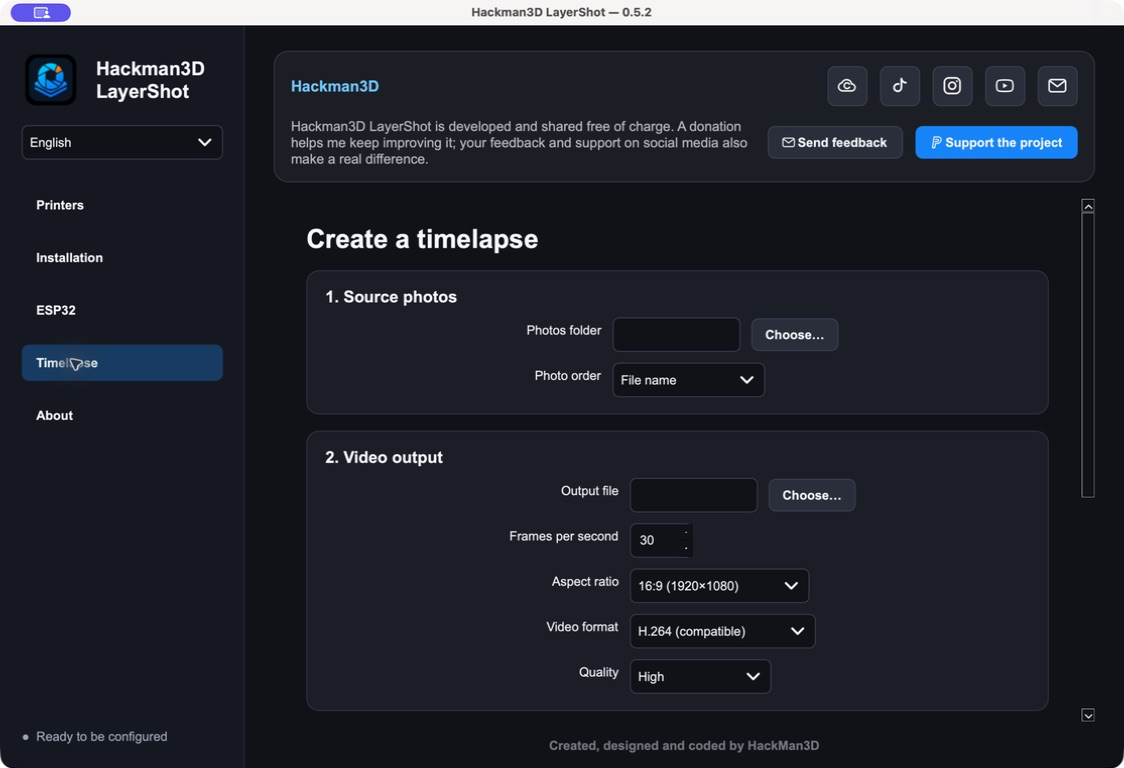
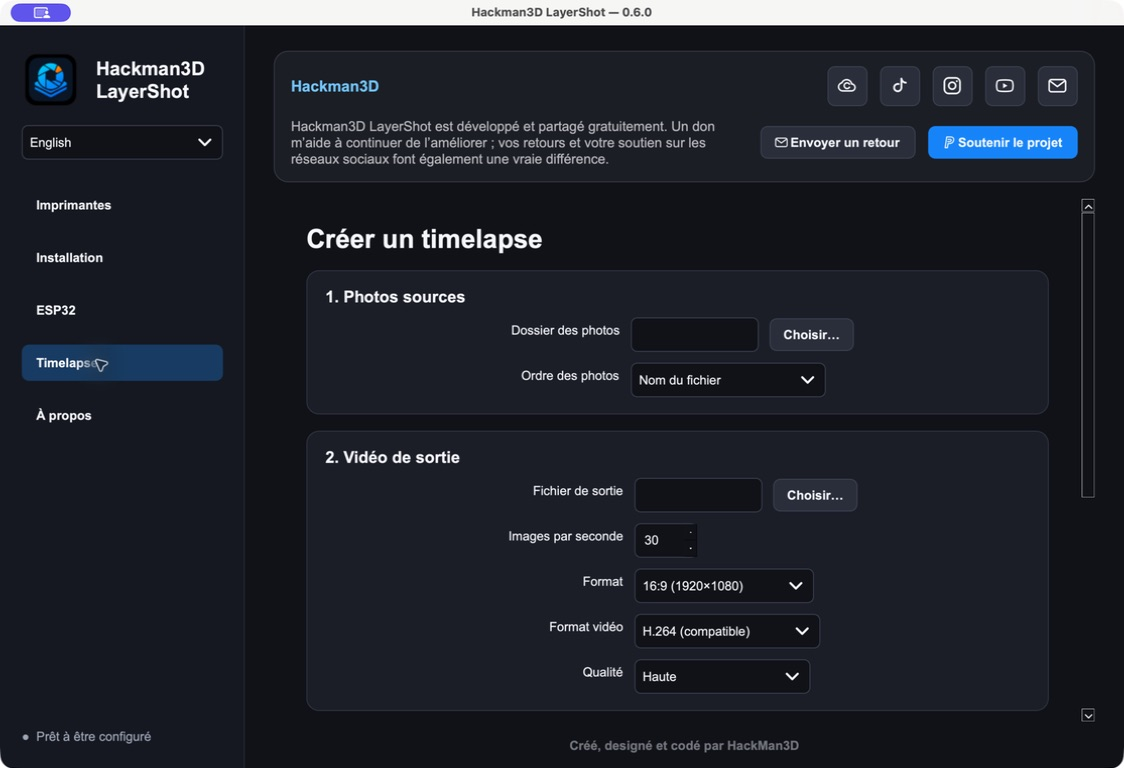
docs: refresh privacy-safe macOS screenshots

diff --git a/README.md b/README.md
@@ -7,7 +7,7 @@ and triggers an iPhone, an Android phone or a compatible DJI camera.
 No iPhone application is required. Once the ESP32 has been configured, the Mac
 or PC application can be closed during the entire print.
 
-![LayerShot printer dashboard](docs/images/printer-dashboard.png)
+![LayerShot camera and firmware selection on macOS](docs/images/installation-camera-selection.png)
 
 ## Download — version 0.6.0
 
@@ -46,6 +46,10 @@ matching firmware:
 | iPhone | iPhones supporting Bluetooth keyboard/remote volume keys | Bluetooth HID `Volume +` | Keep Apple's Camera app open |
 | Android | Phones whose camera app can assign a volume key to the shutter | Bluetooth HID `Volume +` | Enable “volume button = shutter” when required; support depends on the phone and camera app |
 | DJI | DJI Osmo Action 4, Osmo Action 5 Pro, Osmo Action 6 and Osmo 360 | Official DJI BLE camera protocol | Put the camera in Photo mode and approve pairing on its screen |
+
+> **Testing note:** DJI camera support is currently in its public testing phase.
+> The compatible models above are based on DJI's official protocol. Please test
+> the shutter before starting a print and send feedback if you encounter a problem.
 
 DJI Osmo Action 3 and older models are not listed as compatible by the official
 protocol demo used by this project. Smartphone compatibility can vary because
